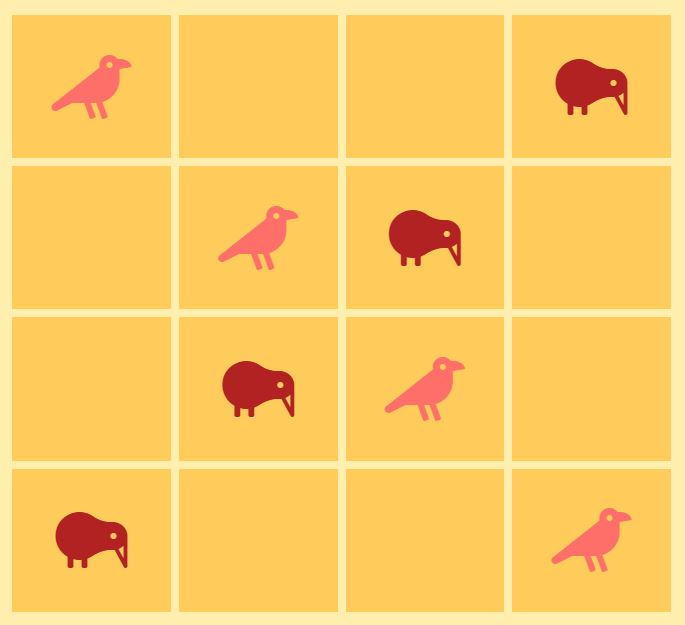
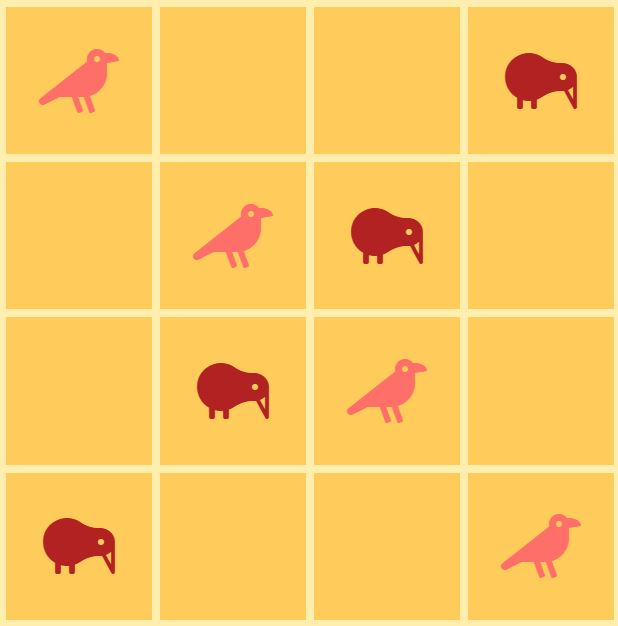
Add media queries

diff --git a/resources/css/style.min.css b/resources/css/style.min.css
@@ -1,1 +1,1 @@
-*{box-sizing:border-box}html{font-size:16px;font-family:Helvetica,sans-serif}body{background-color:#ffeead;width:100%;display:flex;justify-content:center;align-items:center}.overlay{height:100%;width:100%;position:fixed;z-index:1;left:0;top:0;background-color:rgba(0,0,0,0.8);overflow-x:hidden;transition:all .5s}.overlay-content{position:relative;top:40%;width:100%;text-align:center;color:ghostwhite}.container{margin:1rem;height:95vh;width:95vh;display:grid;grid-template:repeat(4,1fr) / repeat(4,1fr);grid-gap:.5rem}.box{background-color:#ffcc5c;cursor:pointer;display:flex;justify-content:center;align-items:center}.box-highlight{background-color:goldenrod}.box-select{opacity:.5;transform:scale(1.1)}.fa-crow{color:#ff6f69}.fa-kiwi-bird{color:firebrick}.fa-poo{opacity:0}span{font-size:4rem;margin-right:1.25rem}p{margin-top:1rem}.rules{font-size:1.25rem;margin-top:40%}.rule{margin-top:5rem}.title-crow{font-family:'IM Fell English SC';font-weight:bold}.title-kiwi{font-family:'Pacifico'}.box-wiggle{animation:box .5s}@keyframes box{0%{transform:rotate(10deg)}25%{transform:rotate(-10deg)}50%{transform:rotate(10deg)}75%{transform:rotate(-10deg)}}
+*{box-sizing:border-box}html{font-size:16px;font-family:Helvetica,sans-serif}body{background-color:#ffeead;width:100%;display:flex;justify-content:center;align-items:center}.overlay{height:100%;width:100%;position:fixed;z-index:1;left:0;top:0;background-color:rgba(0,0,0,0.8);overflow-x:hidden;transition:all .5s}.overlay-content{position:relative;top:40%;width:100%;text-align:center;color:ghostwhite}.container{margin:1rem;height:95vh;width:95vh;display:grid;grid-template:repeat(4,1fr) / repeat(4,1fr);grid-gap:.5rem}.box{background-color:#ffcc5c;cursor:pointer;display:flex;justify-content:center;align-items:center}.box-highlight{background-color:goldenrod}.box-select{opacity:.5;transform:scale(1.1)}.fa-crow{color:#ff6f69}.fa-kiwi-bird{color:firebrick}.fa-poo{opacity:0}span{font-size:4rem;margin-right:1.25rem}p{margin-top:1rem}.rules{font-size:1.25rem;margin-top:40%}.rule{margin-top:5rem}.title-crow{font-family:'IM Fell English SC';font-weight:bold}.title-kiwi{font-family:'Pacifico'}.box-wiggle{animation:box .5s}@keyframes box{0%{transform:rotate(10deg)}25%{transform:rotate(-10deg)}50%{transform:rotate(10deg)}75%{transform:rotate(-10deg)}}@media only screen and (max-width:580px){.container{height:100vw;width:100vw;margin-top:5rem}span{display:block}}

diff --git a/index.html b/index.html
@@ -3,7 +3,7 @@
   <head>
     <meta charset="utf-8">
     <meta name="viewport" content="width=device-width">
-    <meta property="og:image" content="og_image.JPG">
+    <meta property="og:image" content="og_image.jpg">
     <meta property="og:title" content="Crows vs Kiwi">
     <meta property="og:description" content="Choose your bird and win!">
     <meta property="og:url" content="https://kirovia.github.io/crowsvskiwi/">

diff --git a/resources/css/style.css b/resources/css/style.css
@@ -104,3 +104,13 @@ p {
     transform: rotate(-10deg);
   }
 }
+@media only screen and (max-width: 580px) {
+  .container {
+    height: 100vw;
+    width: 100vw;
+    margin-top: 5rem;
+  }
+  span {
+    display: block;
+  }
+}
